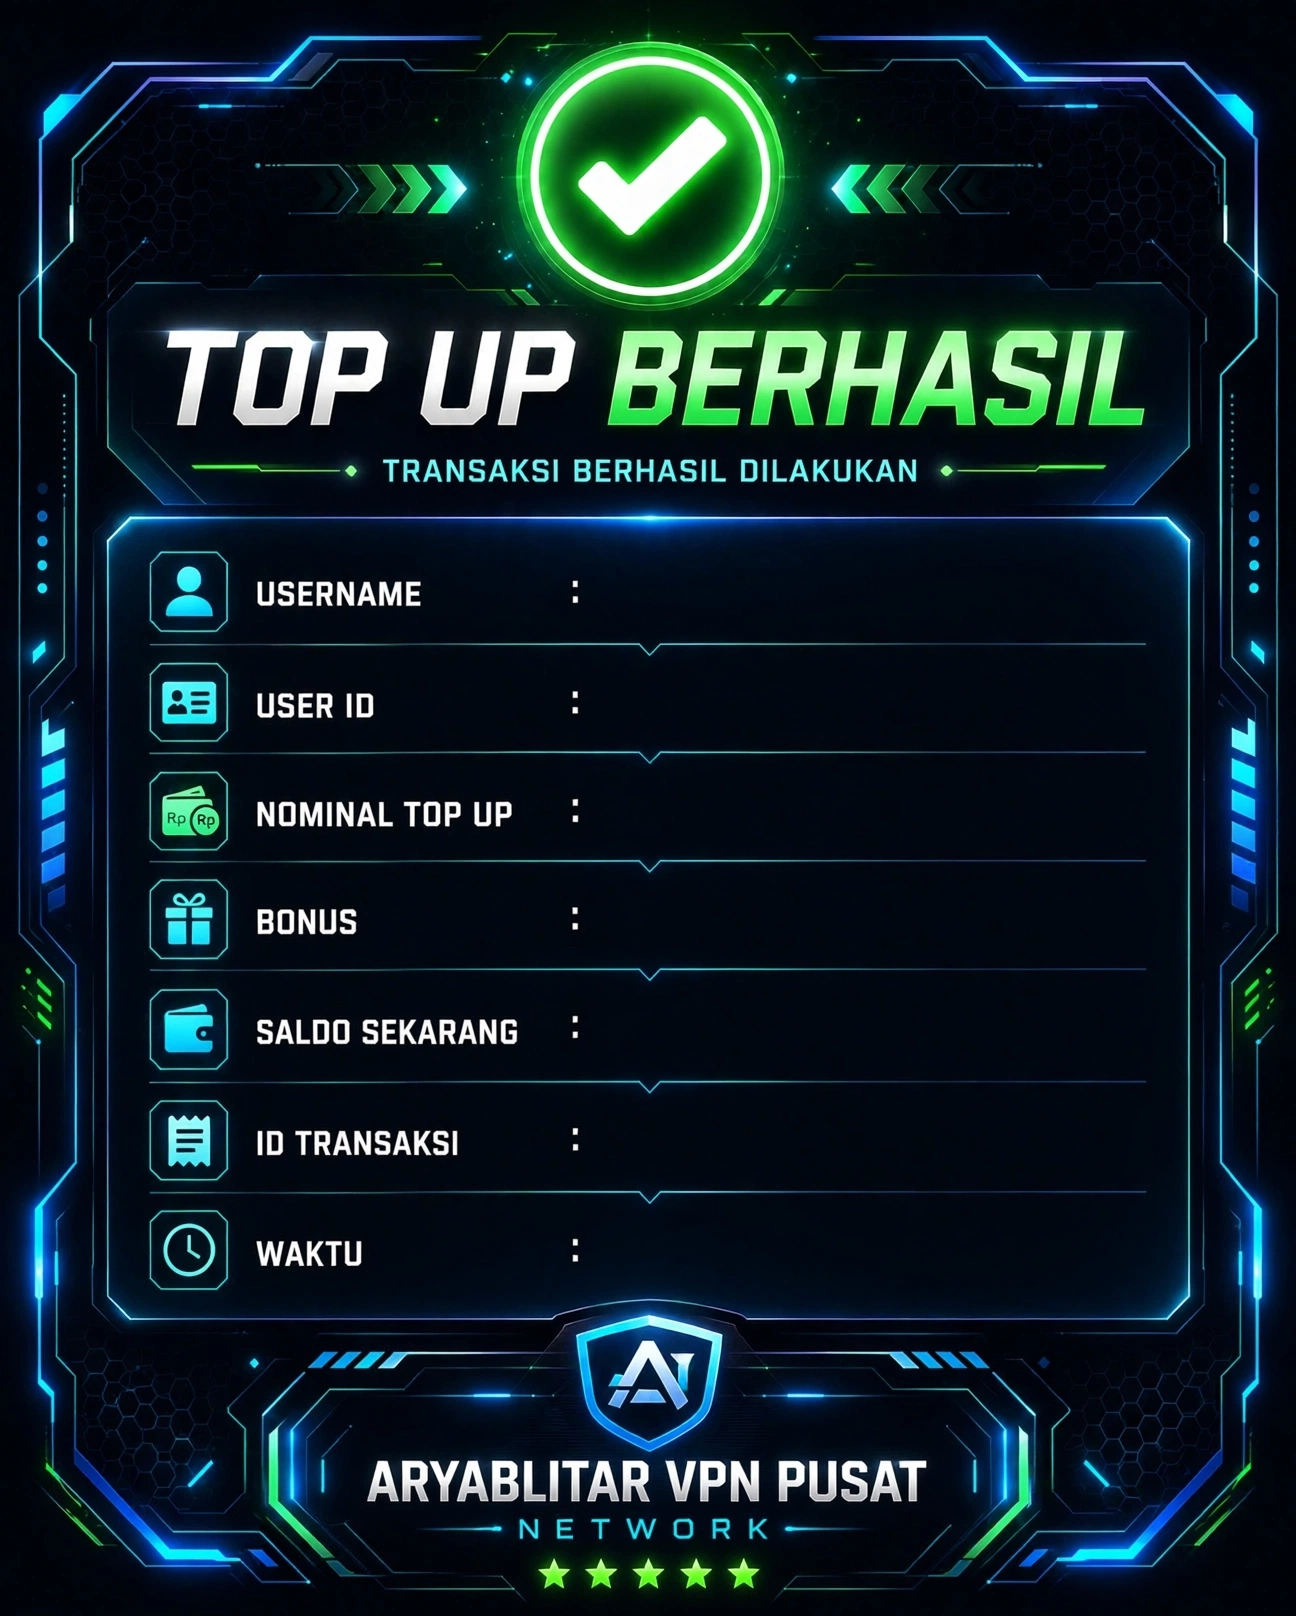
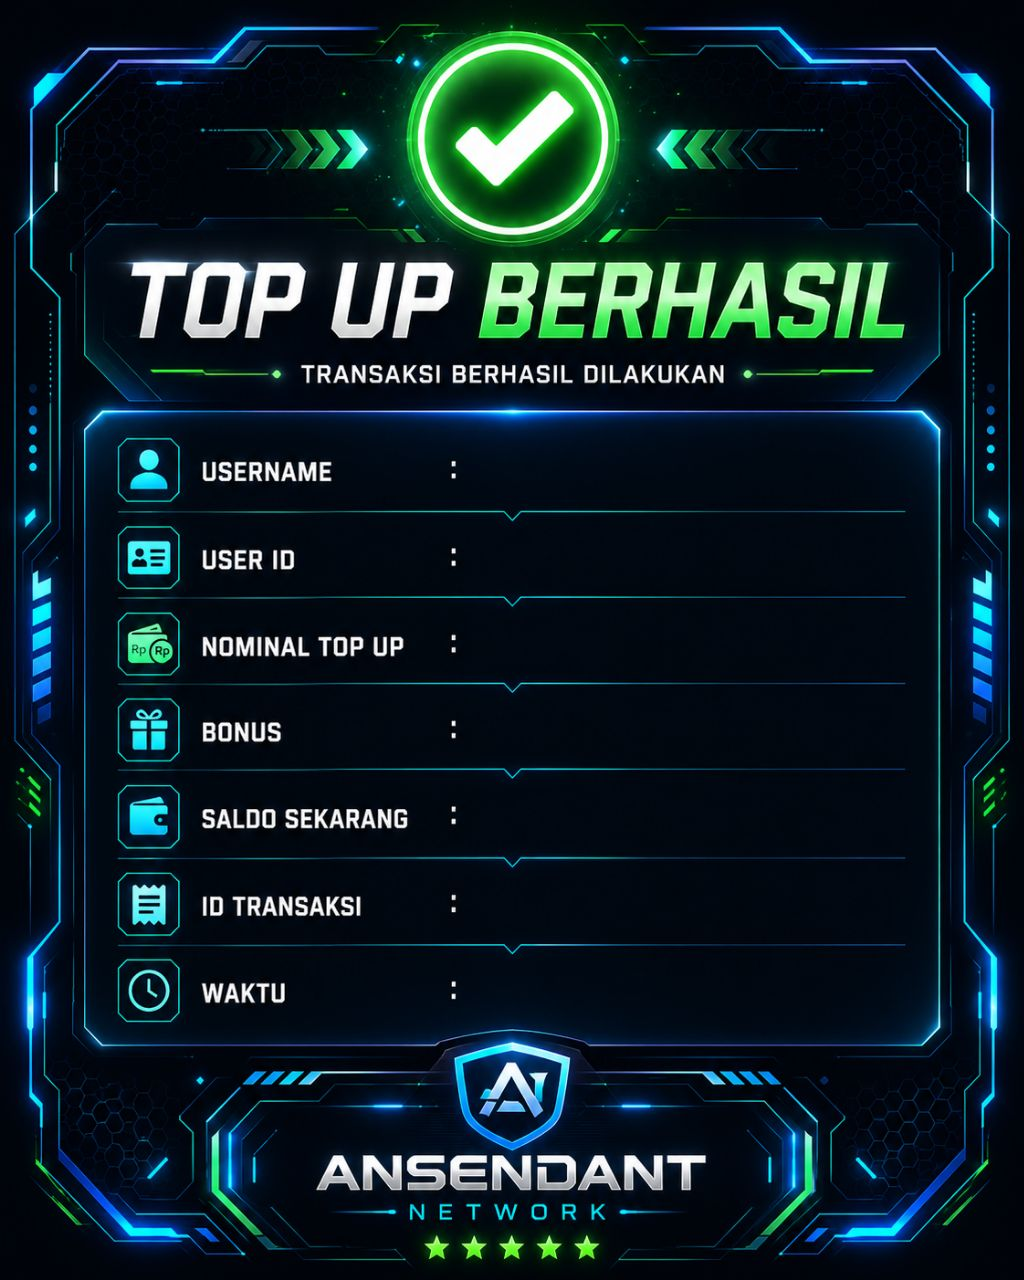
Add files via upload

diff --git a/botvpn/app.js b/botvpn/app.js
@@ -6511,7 +6511,7 @@ async function generateQrisTemplate(payment) {
   const qrData = payment.payment_number || payment.qrString;
 
   const qrBuffer = await QRCode.toBuffer(qrData, {
-    width: 850,
+    width: 550,
     margin: 2,
     errorCorrectionLevel: 'H'
   });
@@ -6530,17 +6530,17 @@ async function generateQrisTemplate(payment) {
   const total = Number(payment.total_payment || payment.amount).toLocaleString('id-ID');
 
   const textOverlay = Buffer.from(`
-  <svg width="2592" height="3232">
+  <svg width="1122" height="1402">
     <style>
       .normal {
         fill: white;
-        font-size: 55px;
+        font-size: 25px;
         font-family: Arial;
       }
 
       .total {
         fill: #00FFFF;
-        font-size: 55px;
+        font-size: 25px;
         font-family: Arial;
         font-weight: bold;
       }
@@ -6610,7 +6610,7 @@ async function generateTopupSuccessTemplate(data) {
   });
 
   const textOverlay = Buffer.from(`
-<svg width="1296" height="1616">
+<svg width="1024" height="1280">
 <style>
 .value{
 fill:#18F6FF;
